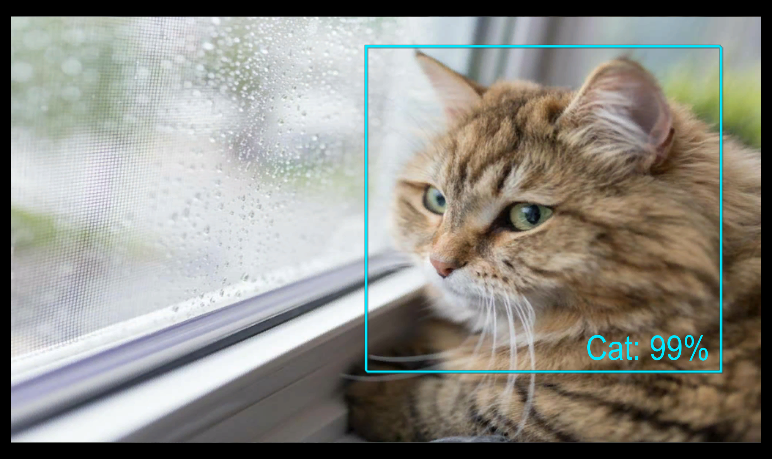
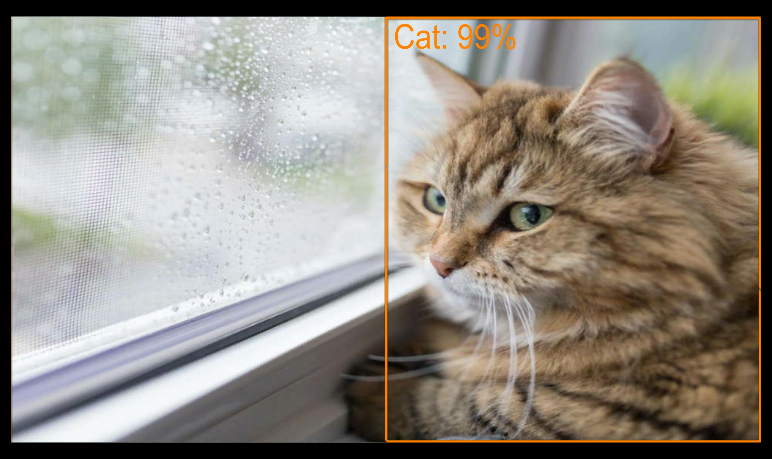
Added range checks on bounding box locations.

Changed region(s): [[0.4663, 0.0305, 0.9948, 0.976], [0.9637, 0.8845, 0.9948, 0.915]]

diff --git a/BoundingBoxUtilsUnity/Assets/Scripts/DrawBoundingBoxes.cs b/BoundingBoxUtilsUnity/Assets/Scripts/DrawBoundingBoxes.cs
@@ -4,16 +4,20 @@ using UnityEngine;
 
 public class DrawBoundingBoxes : MonoBehaviour
 {
+    public Vector2 textureSize;
+
     [System.Serializable]
-    public struct BoundingBox
+    public struct BoundingBoxXYWH
     {
-        public Vector2 topLeft;
-        public Vector2 bottomRight;
+        public float X;
+        public float Y;
+        public float Width;
+        public float Height;
         public string label;
         public Color color;
     }
 
-    public List<BoundingBox> boundingBoxes;
+    public List<BoundingBoxXYWH> boundingBoxes;
     public GameObject textBoxPrefab;
 
     private Material _material;
@@ -26,43 +30,59 @@ public class DrawBoundingBoxes : MonoBehaviour
         _material = this.gameObject.GetComponent<MeshRenderer>().material;
 
         // Create a new texture instance with same size as the canvas.
-        _texture = new Texture2D(1268, 720);
+        _texture = new Texture2D((int)textureSize.x, (int)textureSize.y);
 
         // Set the texture to transparent (with helper method)
         _texture = Texture2DExtension.TransparentTexture(_texture);
 
         // Draw bounding boxes at specified coordinates.
-        foreach (var boundingBox in boundingBoxes)
+        foreach (var box in boundingBoxes)
         {
-            _texture = Texture2DExtension.Box(
-                _texture,
-                boundingBox.topLeft,
-                boundingBox.bottomRight,
-                boundingBox.color);
-
-            // Create a new 3D text object at position and 
-            // set the label string. Canvas is scaled to x = -0.5, 5
-            // and y = -0.5, 0.5.
-            var xText = ((boundingBox.bottomRight.x / 1268.0f) - 0.5f) - 0.18f;
-            var yText = (0.5f - (1.0f - (boundingBox.bottomRight.y / 720.0f))) - 0.1f;
-            var thisBoundingBox = Instantiate(
-                textBoxPrefab,
-                Vector3.zero,
-                Quaternion.identity,
-                this.gameObject.transform) as GameObject;
-
-            thisBoundingBox.transform.localPosition = new Vector3(xText, yText, 0f);
-
-            // Set the label of the bounding box.
-            thisBoundingBox.GetComponent<TextMesh>().text = boundingBox.label;
-            thisBoundingBox.GetComponent<TextMesh>().color = boundingBox.color;
+            DrawBoundingBoxesOnCanvas(box);
         }
-
 
         // Apply and set main material texture;
         _texture.Apply();
         _material.mainTexture = _texture;
 
         ScreenCapture.CaptureScreenshot("Assets/catBoundingBox.jpg");
+    }
+
+    private void DrawBoundingBoxesOnCanvas(BoundingBoxXYWH box)
+    {
+        // Check the bounds of bounding box
+        // Give buffer for line drawing to prevent wrap around
+        int x1 = box.X > 0.0f ? (int)box.X : 2;
+        int y1 = box.Y > 0.0f ? (int)box.Y : 2;
+        int x2 = (box.Width + x1) > textureSize.x ? (int)(textureSize.x) - 2 : (int)(box.Width + x1);
+        int y2 = (box.Height + y1) > textureSize.y ? (int)(textureSize.y) - 2 : (int)(box.Height + y1);
+
+        Debug.LogFormat("x1: {0}, y1: {1}, x2: {2}, y2: {3}", x1, y1, x2, y2);
+
+        // Plot on texture
+        var topLeft = new Vector2(x1, y1);
+        var bottomRight = new Vector2(x2, y2);
+        _texture = Texture2DExtension.Box(
+            _texture,
+            topLeft,
+            bottomRight,
+            box.color);
+
+        // Create a new 3D text object at position and
+        // set the label string.Canvas is scaled to x = -0.5, 5
+        // and y = -0.5, 0.5.
+        var xText = ((topLeft.x / textureSize.x) - 0.5f) + 0.01f;
+        var yText = 0.5f - (1.0f - (topLeft.y / textureSize.y));
+        var thisBoundingBox = Instantiate(
+            textBoxPrefab,
+            Vector3.zero,
+            Quaternion.identity,
+            this.gameObject.transform) as GameObject;
+
+        thisBoundingBox.transform.localPosition = new Vector3(xText, yText, 0f);
+
+       // Set the label of the bounding box.
+       thisBoundingBox.GetComponent<TextMesh>().text = box.label;
+       thisBoundingBox.GetComponent<TextMesh>().color = box.color;
     }
 }
